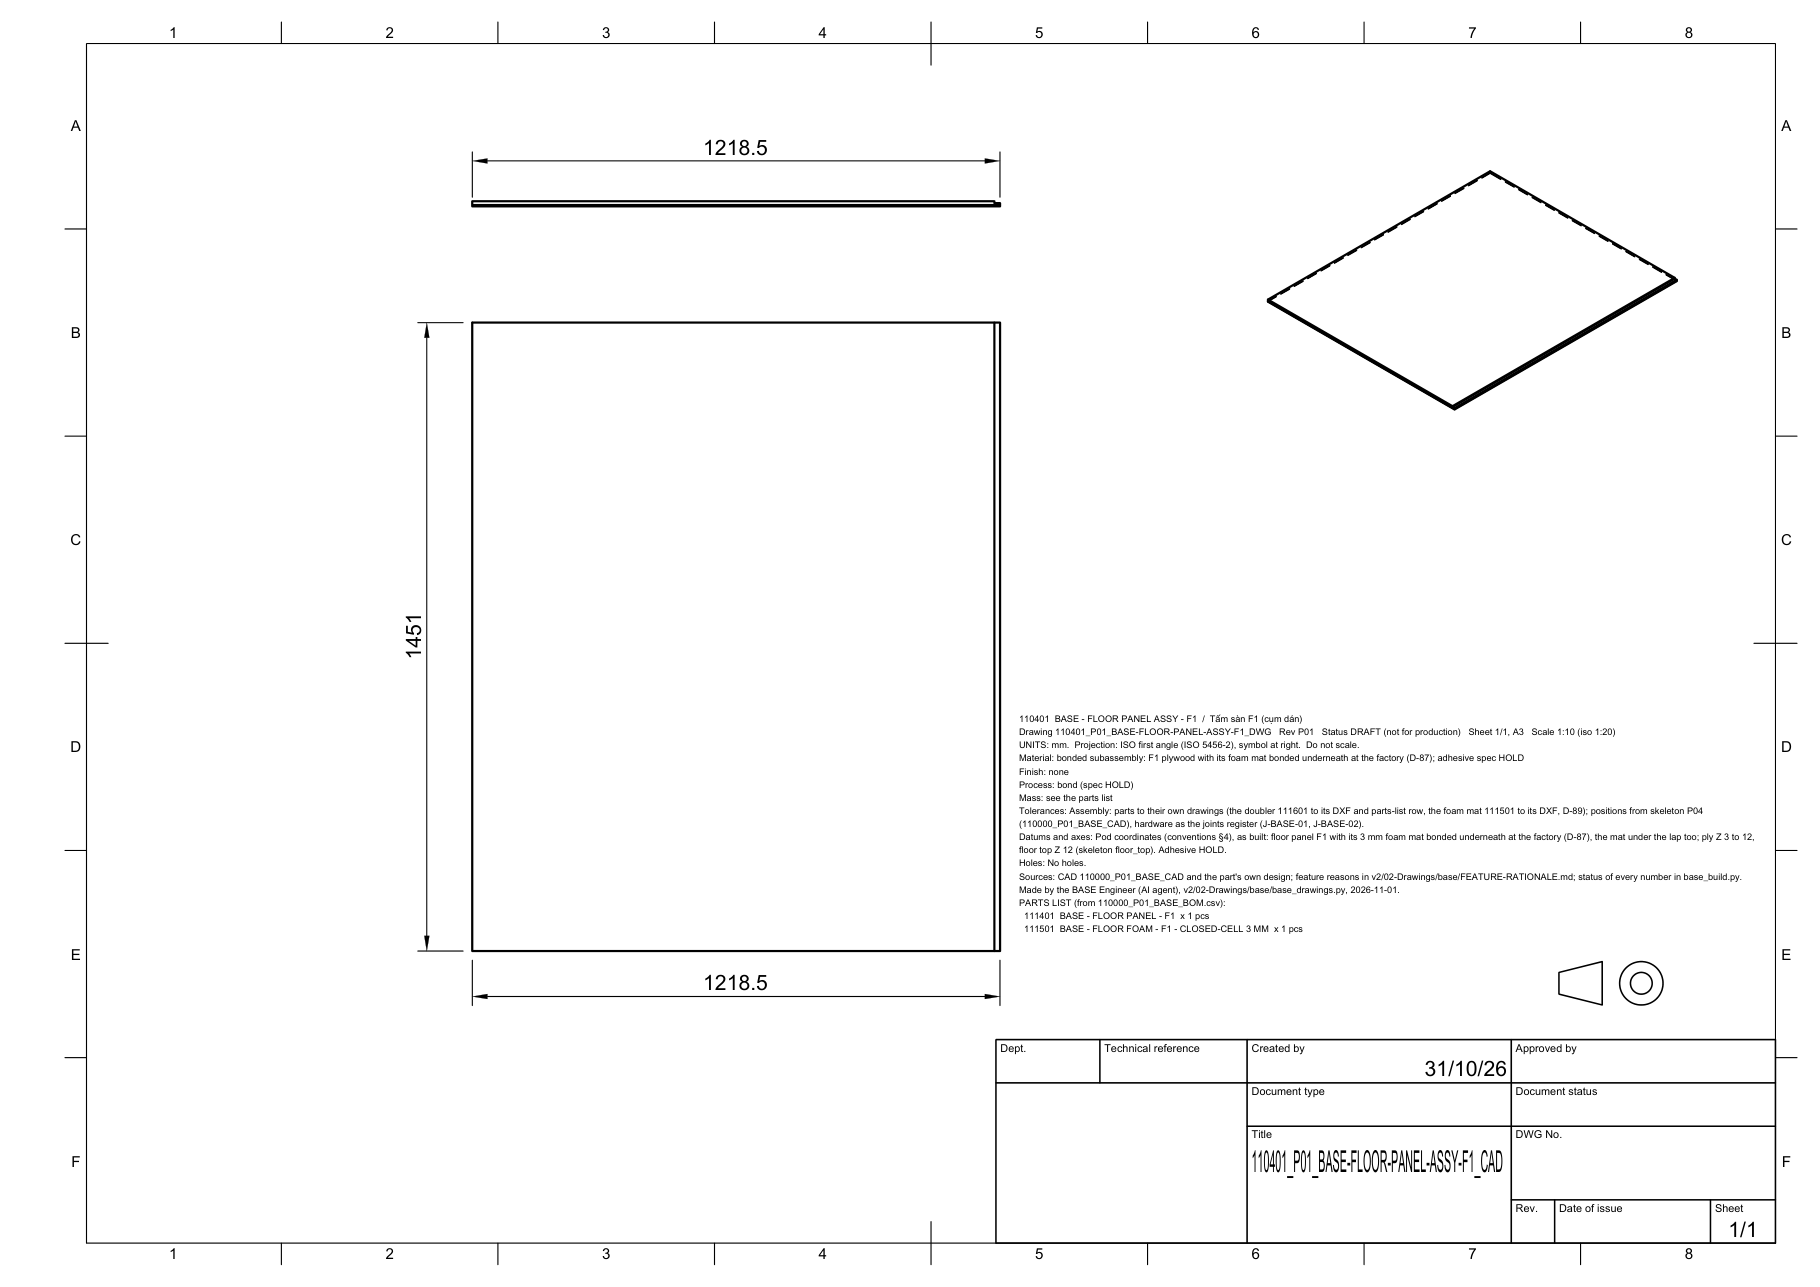
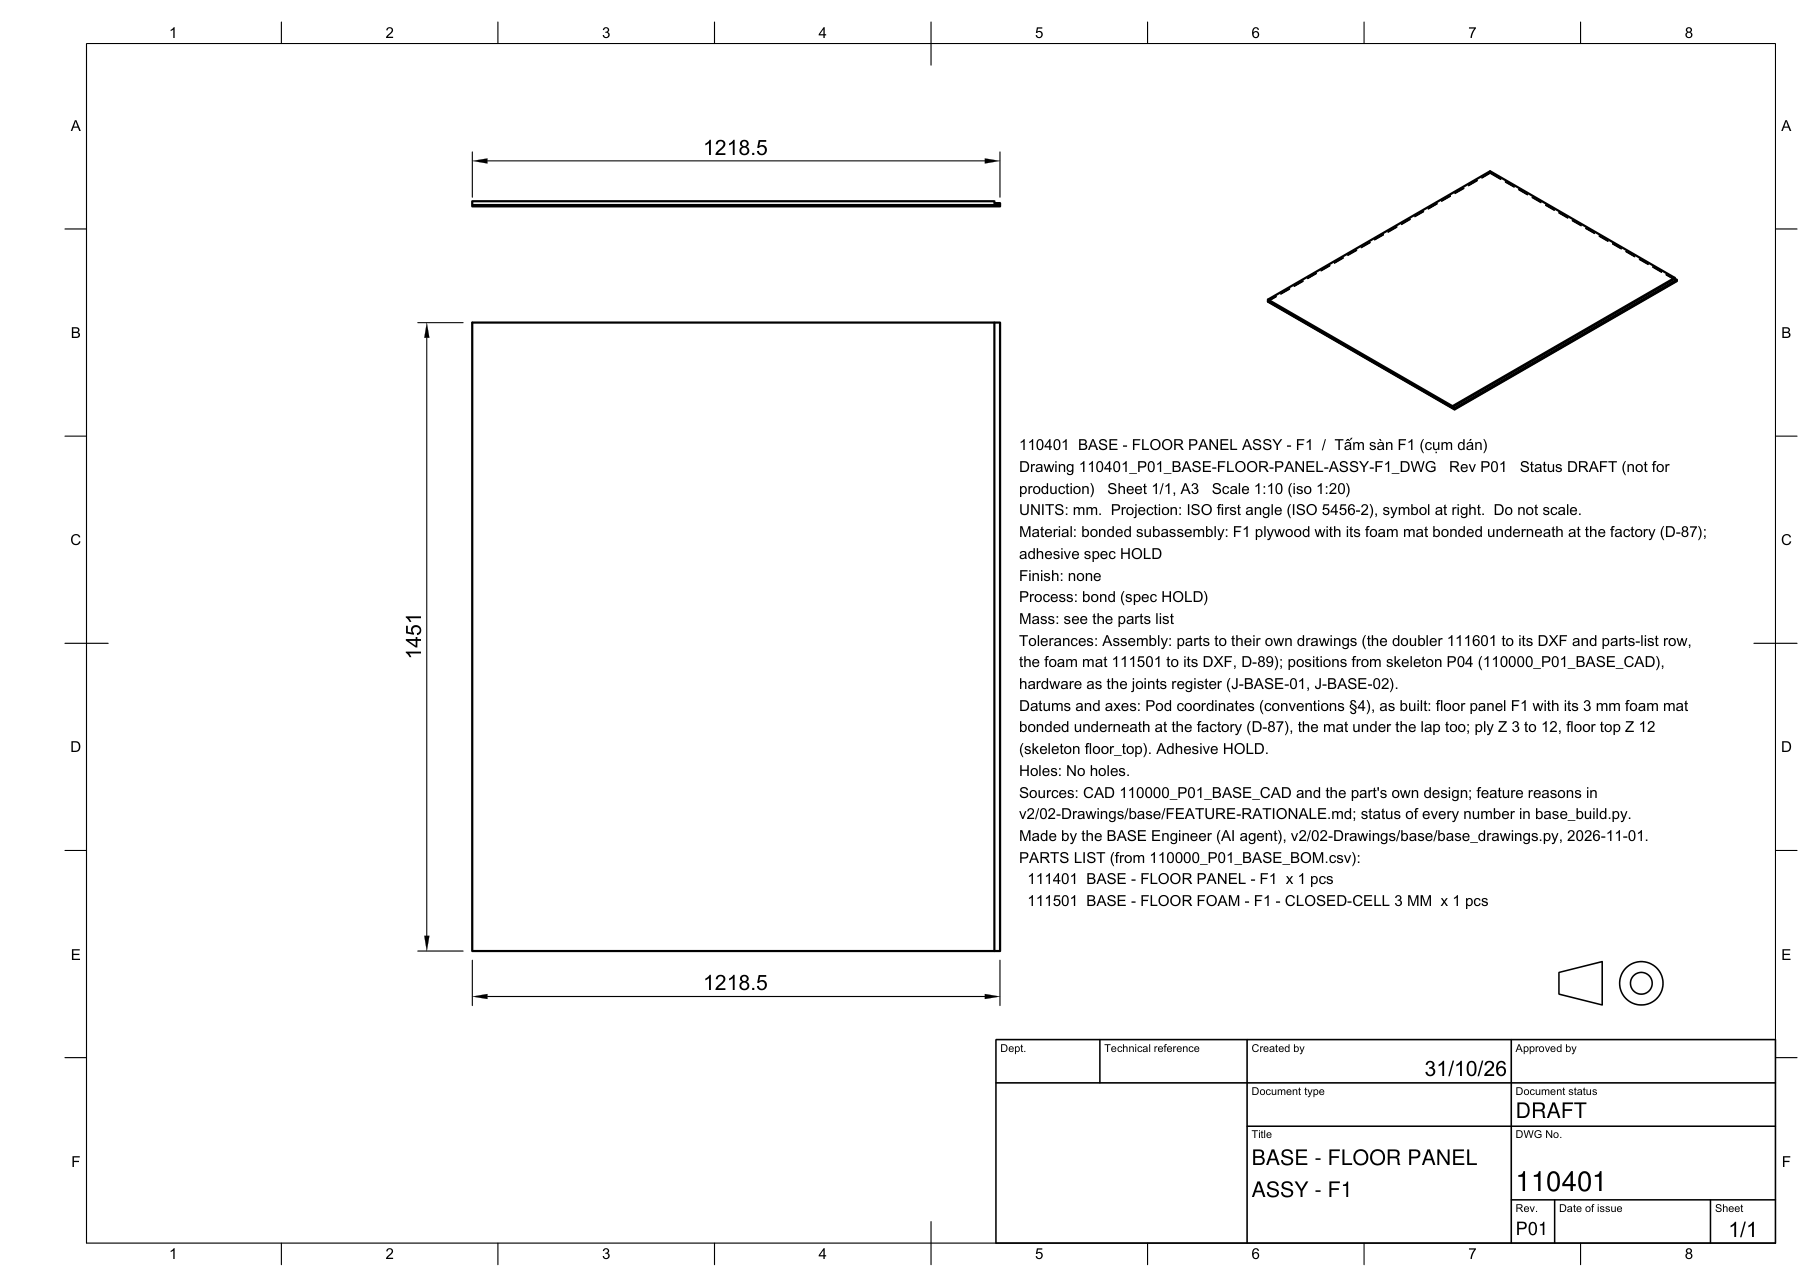
BASE sheets 111401 and 110401: notes at 2.5 mm letters (were 1.3 to 1.5 mm); finish script refuses the generator's band tubes
ELECTRICAL's PDF check found the notes on 111401 printing under the 2.5 mm
minimum. finish_pdfs.py now sets the notes' font size to 3.5 mm, so capitals
are 2.5 mm tall (ISO 3098), and sizes the notes box from the wrapped rows,
with the right-side box 24 mm in from the sheet edge so it stays inside the
frame. If the notes don't fit the box, the script now stops instead of
saving a sheet without them (PyMuPDF writes nothing then).

The band tubes 111101 to 111103 are drawn by the drawing generator (D-112),
so the script refuses them and their old datum and hole notes are removed;
running it on 111103 would have overwritten the generator's sheet.

Both sheets re-finished from their raw Fusion exports with main's data and
main's title-block filler, which now fills DWG No., Rev., status and title.
The notes' text is unchanged.

Changed region(s): [[0.5538, 0.3419, 0.9538, 0.7148], [0.6769, 0.8702, 0.8923, 0.9324], [0.8308, 0.8392, 0.8615, 0.8702]]

diff --git a/v2/02-Drawings/base/finish_pdfs.py b/v2/02-Drawings/base/finish_pdfs.py
@@ -1,12 +1,16 @@
 """Finish BASE drawing PDFs: name strip, title data and notes as text, PNG.
 
-    python3 v2/02-Drawings/base/finish_pdfs.py 111101 [111103 ...]
+    python3 v2/02-Drawings/base/finish_pdfs.py 111401 [110401 ...]
 
 For each part number: takes the raw export from .raw/ (base_drawings.py),
 removes the account holder's name under "Created by" with
 tools/fusion/pdf_clear_field.py, writes the title data, notes and (for
 assemblies) the parts list onto the sheet as PDF text, saves the repo copy
 next to this file and renders a PNG to check by eye. Needs PyMuPDF.
+
+The notes print with 2.5 mm capitals (ISO 3098). The band tubes 111101 to
+111103 are drawn by the drawing generator (D-112, tools/drawgen), so they
+are refused here: finishing them would overwrite the generator's sheet.
 
 The drawing API can't place text on a sheet in this build, so this text is
 added to the PDF, not to the native drawing; it comes from the same sources
@@ -33,10 +37,11 @@ spec = importlib.util.spec_from_file_location("make_outputs", MAKE)
 mo = importlib.util.module_from_spec(spec)
 spec.loader.exec_module(mo)
 
+# drawn by the drawing generator (D-112): not finished here
+GENERATOR = {"111101", "111102", "111103"}
+
 DWG = {
-    "111101": ("111101_P01_BASE-BAND-TUBE-SIDE-LH_DWG", "1:5 (view from the left 1:2)", "A2"),
-    "111103": ("111103_P01_BASE-BAND-TUBE-BACK_DWG", "1:5 (view from the left 1:2)", "A1"),
-    "111401": ("111401_P01_BASE-FLOOR-PANEL-F1_DWG", "1:10", "A3"),
+    "111401":("111401_P01_BASE-FLOOR-PANEL-F1_DWG", "1:10", "A3"),
     "110000": ("110000_P01_BASE_DWG", "1:10", "A2"),
     "110101": ("110101_P01_BASE-BAND-ASSY-SIDE-LH_DWG", "1:5 (iso 1:10)", "A2"),
     "110103": ("110103_P01_BASE-BAND-ASSY-BACK_DWG", "1:5 (iso 1:10)", "A1"),
@@ -57,14 +62,7 @@ TOL = {
 }
 
 DATUMS = {
-    "111101": "Part system CS-111101: X along the band from its back end, Y from the outer face inward, Z from the "
-              "bottom face up. In the pod: X(part) = 847 - Y(pod), Y(part) = X(pod) + 1250, Z(part) = Z(pod) - 10. "
-              "Datums: A = top face (the walls stand on it), B = outer face, C = back end face. Origin O = C x B "
-              "at the bottom. 2D: front view X-2D = X, Y-2D = Z; view from above X-2D = X, Y-2D = Y.",
-    "111103": "Part in pod coordinates (conventions §4): X along the band, Y toward the back face, Z up. Datums: "
-              "A = top face, B = outer (back) face Y = 850, C = left end face X = -1210. Origin O = C x inner face "
-              "for the hole table; dimensions from C.",
-    "111601": "Part system: X across the band, Y along it, origin at the plate centre. Hole Ø13 3 mm off centre "
+    "111601":"Part system: X across the band, Y along it, origin at the plate centre. Hole Ø13 3 mm off centre "
               "toward the pod side (gl_dx).",
     "111211": "Part system: X into the band from the end face (X 0), Y across the band (centred), Z up from the "
               "key's bottom. Datums: A = bottom face (sits on the band's bottom wall, pod Z 11.5), B = end face "
@@ -88,11 +86,7 @@ DATUMS = {
 }
 
 HOLES = {
-    "111101": "Top wall: rivnut holes Ø9.53 for J-BASE-01 (4 bolts with stop washers, 2 spigots) at Y 26 "
-              "(wall tube centre line); glide key holes Ø10. Bottom wall: glide nut holes Ø13. "
-              "Positions: the hole table and the dimensions from datum C.",
-    "111103": "As 111101, for B1 and B2 (frame-end rule, 220 / 100 mm), glides at 150 from each end and the middle.",
-    "111601": "One hole Ø13 for the glide's M10 rivnut.",
+    "111601":"One hole Ø13 for the glide's M10 rivnut.",
     "111211": "Bottom: 2 x M6, 15 of full thread (tap drill Ø5.0 x 18), for the M6 x 12 button head fixing screws, "
               "10 from the back face and 7.5 either side of the centre line. End face: 2 x M6 tapped through, for "
               "the hook studs, 26 and 60 above the bottom (pod Z 37.5 and 71.5) on the centre line (joints register "
@@ -153,6 +147,8 @@ def text_block(pn):
 
 
 def finish(pn):
+    if pn in GENERATOR:
+        raise SystemExit("%s is drawn by the drawing generator (D-112); not finished here" % pn)
     dwg = DWG[pn][0]
     raw = os.path.join(HERE, ".raw", dwg + ".pdf")
     out = os.path.join(HERE, dwg + ".pdf")
@@ -162,20 +158,26 @@ def finish(pn):
     page = doc[0]
     w, h = page.rect.width, page.rect.height
     lines = text_block(pn)
-    fs = 6.0 if w > 1000 else 5.0
-    bh = (len(lines) + 2) * fs * 1.6
-    # bottom left, inside the frame and clear of the title block; a font with the Vietnamese letters
     mm = 72.0 / 25.4
+    # letters at least 2.5 mm tall: ISO 3098 measures the capital height, about 0.72 of the font size in Arial,
+    # so the font size is 3.5 mm (the old 5 to 6 pt printed 1.3 to 1.5 mm letters)
+    fs = 3.5 * mm
     if pn in NOTES_RIGHT:     # the views fill the bottom left: right side, above the projection symbol and title block
-        box = fitz.Rect(w * 0.56, h - 75 * mm - bh, w - 12 * mm, h - 75 * mm)
-    else:
-        box = fitz.Rect(22 * mm, h - 14 * mm - bh, w * 0.545, h - 14 * mm)     # the frame is 20 mm in on the left
+        x0, x1, bottom = w * 0.56, w - 24 * mm, h - 75 * mm
+    else:                     # bottom left, inside the frame (20 mm in on the left) and clear of the title block
+        x0, x1, bottom = 22 * mm, w * 0.545, h - 14 * mm
+    chars = max(40, int((x1 - x0) / (fs * 0.5)))       # Arial's average letter is about half the font size wide
+    rows = sum(1 + len(line) // chars for line in lines)
+    box = fitz.Rect(x0, bottom - (rows + 2) * fs * 1.45, x1, bottom)
+    # a font with the Vietnamese letters
     font = next((f for f in ("/System/Library/Fonts/Supplemental/Arial Unicode.ttf", "/Library/Fonts/Arial Unicode.ttf")
                  if os.path.exists(f)), None)
     if font:
-        page.insert_textbox(box, "\n".join(lines), fontsize=fs, fontname="arialuni", fontfile=font, align=0)
+        rc = page.insert_textbox(box, "\n".join(lines), fontsize=fs, fontname="arialuni", fontfile=font, align=0)
     else:
-        page.insert_textbox(box, "\n".join(lines), fontsize=fs, fontname="helv", align=0)
+        rc = page.insert_textbox(box, "\n".join(lines), fontsize=fs, fontname="helv", align=0)
+    if rc < 0:                # PyMuPDF writes nothing when the text doesn't fit
+        raise SystemExit("%s: the notes need %.1f mm more height than the box" % (pn, -rc / mm))
     doc.save(out, garbage=3, deflate=True)
     doc.close()
     os.remove(tmp)
